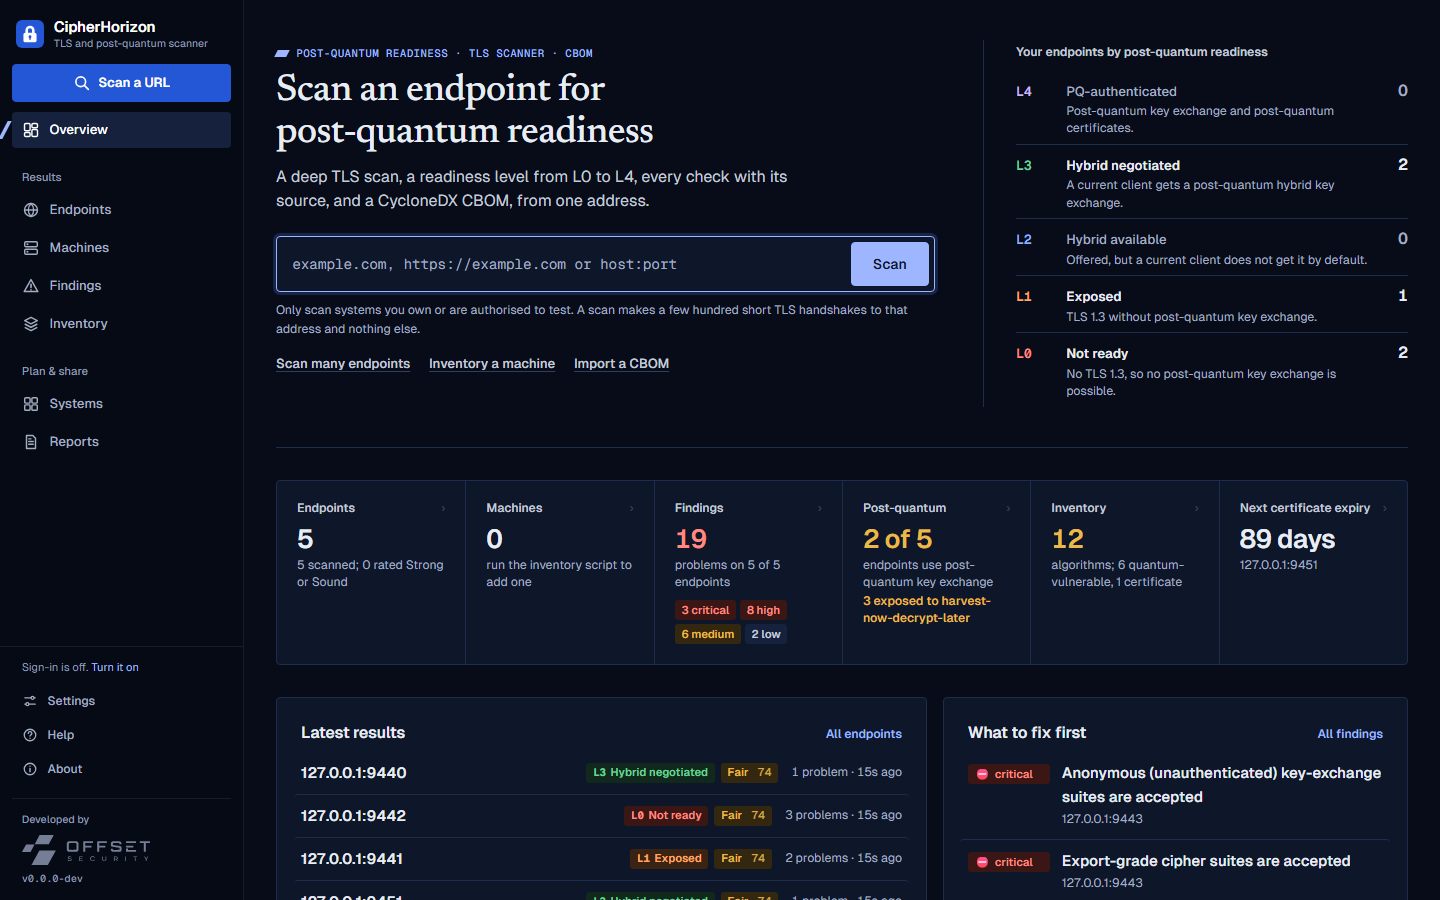
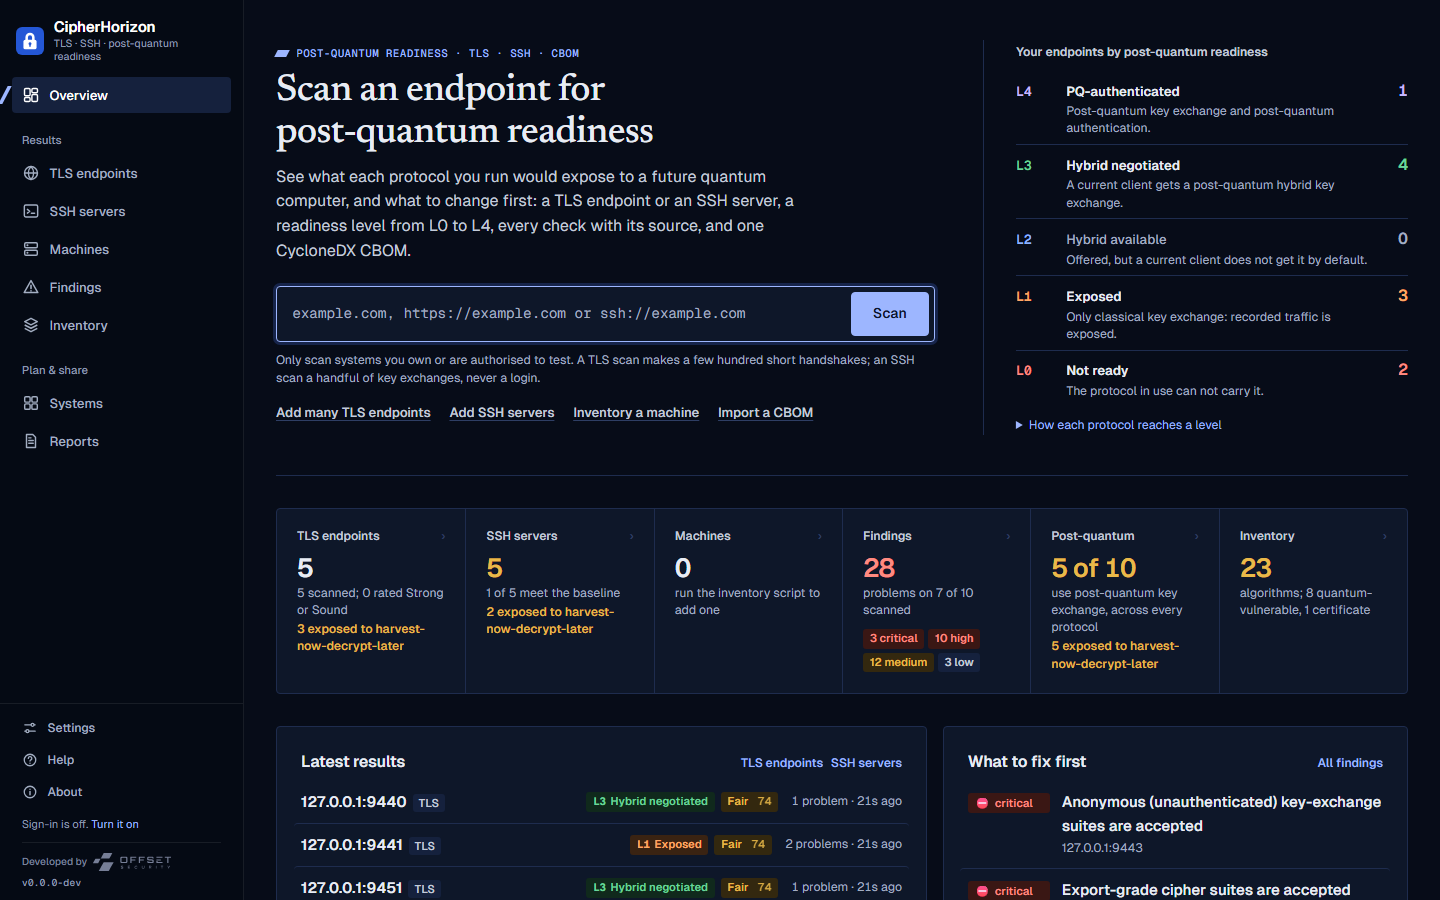
docs: README screenshots and features for TLS and SSH
The screenshots dated from the TLS-only product. screenshots.mjs now
adds the SSH demo servers and captures the SSH servers page and an SSH
report (summary and baseline); every image is regenerated from demo
data. The README shows a TLS report, STARTTLS, SSH servers and the
sshd_config lines, and gains a short list of what is in the product.

diff --git a/README.md b/README.md
@@ -14,7 +14,7 @@ quantum-vulnerable algorithms after 2030 and disallows them after 2035, and anyt
 decrypted later. CipherHorizon tells you which of your TLS endpoints and SSH servers are exposed, which machines carry
 quantum-vulnerable cryptography, and what to fix first. It runs on your network and sends nothing anywhere.
 
-![The Overview: a scan box, the L0 to L4 readiness scale, and the state of every endpoint scanned](docs/img/overview.png)
+![The Overview: a scan box, the L0 to L4 readiness scale across TLS endpoints and SSH servers, and a card per protocol](docs/img/overview.png)
 
 ## Quick start
 
@@ -63,9 +63,26 @@ included), verifies every host key, and never logs in. It judges the server agai
 installing anything; CBOMs from other tools can be imported. TLS endpoints, SSH servers and machines merge into one
 CycloneDX 1.7 CBOM, with PDF reports for each endpoint and for the whole inventory, and the OMB M-23-02 items per system.
 
-| A report: verdict first, then every check | STARTTLS services, the same depth |
+| A TLS endpoint: verdict first, then every check | STARTTLS services, the same depth |
 |---|---|
-| ![An endpoint report: readiness L3, TLS hygiene score, the one thing to fix](docs/img/report-hybrid.png) | ![An SMTP endpoint scanned through STARTTLS](docs/img/report-starttls.png) |
+| ![A TLS endpoint report: readiness L3, the TLS hygiene score, what to fix](docs/img/report-hybrid.png) | ![An SMTP endpoint scanned through STARTTLS](docs/img/report-starttls.png) |
+| **SSH servers: readiness and the baseline, never a score** | **The `sshd_config` lines that meet the baseline** |
+| ![The SSH servers page: readiness, baseline verdict, findings and host key per server](docs/img/ssh-servers.png) | ![An SSH server's Configuration tab: the baseline verdict, the sshd_config lines to copy, and what the baseline requires](docs/img/report-ssh-baseline.png) |
+
+## What is in it
+
+| | |
+|---|---|
+| **TLS endpoints** | Every protocol from SSLv2 to TLS 1.3, every cipher suite and key-exchange group (hybrids such as `X25519MLKEM768` included), the TLS 1.3 signature schemes (ML-DSA included), the certificate chain against the Mozilla and Chrome root stores or your own CA, OCSP stapling, Certificate Transparency and HSTS. STARTTLS for SMTP, IMAP, POP3, FTP, XMPP, LDAP and PostgreSQL. 55 cited checks and the TLS hygiene score. |
+| **SSH servers** | Identification and algorithm lists, negotiation as OpenSSH 10.6 would (the ML-KEM hybrid included), every host key fetched and verified (Ed25519, ECDSA, RSA, ML-DSA and the composite `ssh-mldsa44-ed25519`), 18 cited checks, and the CipherHorizon SSH baseline 2026 with the `sshd_config` lines to meet it. It never logs in. |
+| **Post-quantum readiness** | L0 to L4 for every TLS endpoint and SSH server, each protocol by its own stated rules, with harvest-now-decrypt-later exposure. |
+| **Machines** | Two readable inventory scripts (PowerShell, shell) list a machine's cryptographic software and certificates; nothing is installed and no key material is read. |
+| **Inventory** | TLS endpoints, SSH servers, machines and imported CBOMs merged into one CycloneDX 1.7 (or 1.6) CBOM. |
+| **Findings and systems** | Findings across everything, grouped by problem, with triage; systems ranked for migration by exposure and how long their data must stay secret; OMB M-23-02 export per system. |
+| **Reports** | PDF reports per TLS endpoint, per SSH server and for the whole inventory; CycloneDX, CSV and JSON downloads. |
+| **Over time** | Schedules, history, and what changed between two scans. |
+| **For teams** | Sign-in when you want it: administrator, analyst and viewer roles, an exportable activity log. |
+| **For pipelines** | `tls scan` and `ssh scan` from the command line with `--fail-on` gates (exit 3), JSON and CBOM output, and the REST API (`/api/v1/openapi.json`). |
 
 ## How it compares
 
